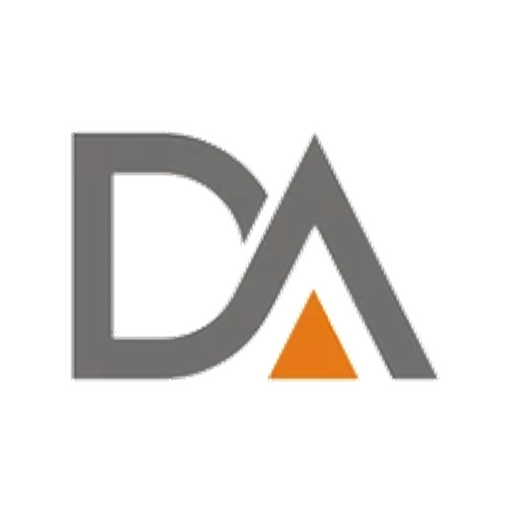
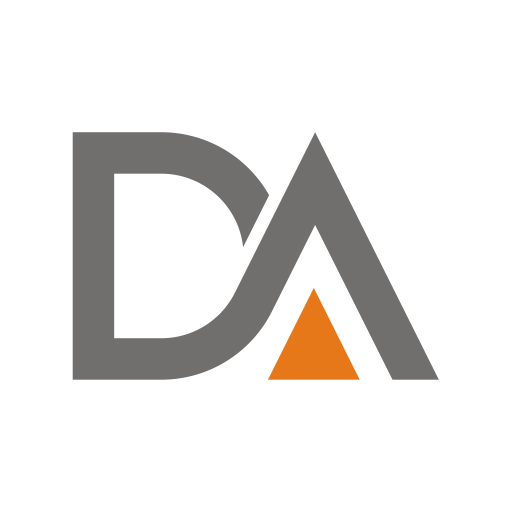
feat(assets): make a geometric vector the studio mark's master
- Add da-logo.svg plus black and white silhouettes, built from exact
  lines and arcs: one 2:1 slope for every diagonal, one stroke width,
  one ring for the D's bowl, sharp computed corners
- Fills come from --da-structure and --da-apex custom properties, with
  plain fill attributes as the fallback for renderers without CSS
- Re-render every raster from the SVG: colour and silhouette PNGs at
  1024 px, both avatars and the favicon set in their previous layouts
- Add tools/score_mark.py (Pillow only), the match check a redraw must
  pass against the original raster: IoU >= 0.98 per colour, white
  channels clear, open regions unchanged; the master scores 0.9963 and
  0.9923
- README: the SVG is the master, redraws are allowed when they pass the
  check, the original raster is kept for reference, and a brand design
  pass may change the palette

diff --git a/tools/score_mark.py b/tools/score_mark.py
@@ -1,0 +1,174 @@
+#!/usr/bin/env python3
+"""Check a redraw of the studio mark against the original raster.
+
+The original (assets/da-logo-original.png, 158x112) has binary alpha; its
+edge pixels are the mark's colour blended toward white. Each pixel's
+coverage of the structure grey and the apex orange is recovered from that
+blend. The candidate is a 158x112 render with a transparent background and
+is read the same way, against its own two fill colours; for a vector
+render with exact fills that is simply its alpha.
+
+Pass criteria:
+  * IoU of at least 0.98 per colour (masks cut at 50% coverage);
+  * the white channels clear: no candidate pixel above alpha 64 where the
+    original is transparent inside the mark's bounding box;
+  * the same number of open background regions as the original.
+
+Pixel match on white is reported for information. A crisp vector scores
+about 95% within a tolerance of 16 because the original's edges are softer
+than vector anti-aliasing; it is not a pass criterion.
+
+Usage:
+  inkscape --export-type=png --export-width=158 --export-filename=r.png assets/da-logo.svg
+  python3 tools/score_mark.py r.png [--original assets/da-logo-original.png]
+      [--structure '#716f6e'] [--apex '#e67819']
+
+--structure and --apex name the candidate's fill colours, so a recoloured
+redraw can be checked against the original's shapes. Requires Pillow only.
+Exit status 0 on pass, 1 on fail.
+"""
+
+import argparse
+import sys
+from collections import deque
+from pathlib import Path
+
+from PIL import Image
+
+ORIGINAL_STRUCTURE = (0x71, 0x6F, 0x6E)
+ORIGINAL_APEX = (0xE6, 0x78, 0x19)
+RGB = tuple[int, int, int]
+Grid = list[list[float]]
+DEFAULT_ORIGINAL = (
+    Path(__file__).resolve().parent.parent / "assets" / "da-logo-original.png"
+)
+
+
+def hex_rgb(s: str) -> RGB:
+    s = s.lstrip("#")
+    return tuple(int(s[i : i + 2], 16) for i in (0, 2, 4))
+
+
+def blend_coverage(rgb: RGB, colour: RGB) -> tuple[float, float]:
+    """Least-squares c in rgb = c*colour + (1-c)*white, plus the residual."""
+    d = [255 - k for k in colour]
+    c = sum((255 - v) * dk for v, dk in zip(rgb, d)) / sum(dk * dk for dk in d)
+    c = min(max(c, 0.0), 1.0)
+    resid = sum((v - (255 - c * dk)) ** 2 for v, dk in zip(rgb, d))
+    return c, resid
+
+
+def coverage(img: Image.Image, structure: RGB, apex: RGB) -> tuple[Grid, Grid]:
+    """Coverage maps (structure, apex): alpha times the blend toward white.
+    A vector render with exact fills gets its alpha; a raster with opaque
+    white-blended edges, like the original, gets the blend."""
+    w, h = img.size
+    px = img.load()
+    s = [[0.0] * w for _ in range(h)]
+    a = [[0.0] * w for _ in range(h)]
+    for y in range(h):
+        for x in range(w):
+            r, g, b, al = px[x, y]
+            if al == 0:
+                continue
+            cs, rs = blend_coverage((r, g, b), structure)
+            ca, ra = blend_coverage((r, g, b), apex)
+            if rs <= ra:
+                s[y][x] = cs * al / 255
+            else:
+                a[y][x] = ca * al / 255
+    return s, a
+
+
+def iou(m: Grid, c: Grid) -> float:
+    inter = union = 0
+    for rm, rc in zip(m, c):
+        for vm, vc in zip(rm, rc):
+            bm, bc = vm >= 0.5, vc >= 0.5
+            inter += bm and bc
+            union += bm or bc
+    return inter / union if union else 1.0
+
+
+def regions(empty: list[list[bool]]) -> int:
+    """Count 4-connected regions of True cells."""
+    h, w = len(empty), len(empty[0])
+    seen = [[False] * w for _ in range(h)]
+    n = 0
+    for y0 in range(h):
+        for x0 in range(w):
+            if not empty[y0][x0] or seen[y0][x0]:
+                continue
+            n += 1
+            q = deque([(x0, y0)])
+            seen[y0][x0] = True
+            while q:
+                x, y = q.popleft()
+                for nx, ny in ((x + 1, y), (x - 1, y), (x, y + 1), (x, y - 1)):
+                    if (
+                        0 <= nx < w
+                        and 0 <= ny < h
+                        and empty[ny][nx]
+                        and not seen[ny][nx]
+                    ):
+                        seen[ny][nx] = True
+                        q.append((nx, ny))
+    return n
+
+
+def over_white(p: tuple[int, int, int, int]) -> tuple[float, float, float]:
+    r, g, b, a = p
+    t = a / 255
+    return (r * t + 255 * (1 - t), g * t + 255 * (1 - t), b * t + 255 * (1 - t))
+
+
+def main() -> int:
+    ap = argparse.ArgumentParser(description=__doc__.split("\n")[0])
+    ap.add_argument("candidate", help="158x112 PNG render of the redraw")
+    ap.add_argument("--original", default=str(DEFAULT_ORIGINAL))
+    ap.add_argument("--structure", default="#716f6e")
+    ap.add_argument("--apex", default="#e67819")
+    args = ap.parse_args()
+
+    orig = Image.open(args.original).convert("RGBA")
+    cand = Image.open(args.candidate).convert("RGBA")
+    if cand.size != orig.size:
+        sys.exit(
+            f"candidate is {cand.size[0]}x{cand.size[1]}; render it at {orig.size[0]}x{orig.size[1]}"
+        )
+    w, h = orig.size
+    ms, ma = coverage(orig, ORIGINAL_STRUCTURE, ORIGINAL_APEX)
+    cs, ca = coverage(cand, hex_rgb(args.structure), hex_rgb(args.apex))
+    iou_s, iou_a = iou(ms, cs), iou(ma, ca)
+
+    op, cp = orig.load(), cand.load()
+    xs = [x for x in range(w) for y in range(h) if op[x, y][3]]
+    ys = [y for x in range(w) for y in range(h) if op[x, y][3]]
+    x0, x1, y0, y1 = min(xs), max(xs), min(ys), max(ys)
+    channel = blocked = 0
+    for y in range(y0, y1 + 1):
+        for x in range(x0, x1 + 1):
+            if op[x, y][3] == 0:
+                channel += 1
+                blocked += cp[x, y][3] > 64
+    reg_o = regions([[ms[y][x] + ma[y][x] < 0.5 for x in range(w)] for y in range(h)])
+    reg_c = regions([[cp[x, y][3] < 128 for x in range(w)] for y in range(h)])
+    match = sum(
+        max(abs(u - v) for u, v in zip(over_white(op[x, y]), over_white(cp[x, y])))
+        <= 16
+        for y in range(h)
+        for x in range(w)
+    ) / (w * h)
+
+    ok = iou_s >= 0.98 and iou_a >= 0.98 and blocked == 0 and reg_o == reg_c
+    print(f"IoU structure      {iou_s:.4f}  (bar 0.98)")
+    print(f"IoU apex           {iou_a:.4f}  (bar 0.98)")
+    print(f"channel pixels     {blocked} of {channel} above alpha 64  (bar 0)")
+    print(f"open regions       {reg_c} candidate, {reg_o} original")
+    print(f"match on white     {match * 100:.1f}% within 16  (information only)")
+    print("PASS" if ok else "FAIL")
+    return 0 if ok else 1
+
+
+if __name__ == "__main__":
+    sys.exit(main())

diff --git a/README.md b/README.md
@@ -1,52 +1,79 @@
-# Dais & Apex — brand assets
+# Dais & Apex brand assets
 
-The studio mark: an interlocked **D** and **A** — the dais — with an orange
-peak between the A's legs — the apex. Designed by the studio; the master
-artwork is the raster original, kept verbatim. Derived files are produced only
-by background removal, cropping, recoloring the silhouette, and scaling —
-never by redrawing.
+The studio mark: an interlocked **D** and **A**, the dais, with an orange peak
+between the A's legs, the apex.
+
+The master is `assets/da-logo.svg`. It is built from exact lines and arcs: one
+2:1 slope for every diagonal, one stroke width, one ring for the D's bowl.
+Every raster in `assets/` is rendered from it.
+
+A full brand design pass is under way. The palette, and possibly the shapes,
+may change.
 
 ## Files
 
 | File | Use |
 |------|-----|
-| `assets/da-logo.png` | **Master.** Original artwork, transparent background. |
-| `assets/da-logo-black.png` | All-black silhouette — light grounds, print, single-ink. |
-| `assets/da-logo-white.png` | All-white silhouette — dark grounds. |
-| `assets/avatar-512.png` | GitHub org avatar (white tile; upload via web UI). |
-| `assets/favicon-16/32/48.png` | Raster favicons, downscaled from the master. |
+| `assets/da-logo.svg` | **Master.** Colour mark, vector. |
+| `assets/da-logo-black.svg` | All-black silhouette, vector. Light grounds, print, single ink. |
+| `assets/da-logo-white.svg` | All-white silhouette, vector. Dark grounds. |
+| `assets/da-logo.png`, `-black.png`, `-white.png` | The same three, 1024 px wide. |
+| `assets/avatar-512.png` | GitHub org avatar, white tile. Upload via the web UI. |
+| `assets/avatar-circle-512.png` | Black mark on a white disc, for circle crops. |
+| `assets/favicon-16/32/48.png` | Raster favicons. |
 | `assets/favicon.ico` | Multi-resolution icon (16/32/48) for legacy clients. |
+| `assets/da-logo-original.png` | The designer's original raster (158 px), kept for reference. Not for use. |
+| `tools/score_mark.py` | Match check for redraws. |
 
-## Palette (sampled from the master)
+## Palette
 
-| Token | Hex | Role |
-|-------|-----|------|
-| Structure grey | `#716f6e` | The D and A |
-| Apex orange | `#e67819` | The peak |
+| Token | Hex | CSS property | Role |
+|-------|-----|--------------|------|
+| Structure grey | `#716f6e` | `--da-structure` | The D and A |
+| Apex orange | `#e67819` | `--da-apex` | The peak |
+
+In the SVGs the fills come from the two CSS custom properties. Renderers
+without CSS support use the plain `fill` attributes, so change both when
+recolouring.
 
 ## Usage
 
-- The color master is the default form. Black/white silhouettes are for
-  single-ink contexts; they are recolors of the same pixels, not redraws.
-- The white channels between the D, the A, and the peak are part of the mark —
-  keep them clear.
-- The master is 158px wide: fine for avatars and below. For large-format uses,
-  regenerate the derived set from a higher-resolution export of the original
-  artwork using the same pipeline; do not upscale beyond the avatar size, and
-  do not substitute a redrawn version.
+- Use the SVG wherever it is accepted. For rasters, render from the SVG at the
+  size needed rather than scaling a PNG.
+- The silhouettes are for single-ink contexts.
+- The white channels between the D, the A and the peak are part of the mark.
+  Keep them clear.
+
+## Redraws
+
+A redraw may replace the master when it passes the match check against the
+original raster:
+
+- IoU of at least 0.98 per colour;
+- the white channels clear;
+- the same open regions as the original, so no channel closes up.
+
+Render at 158 px and run the check (Pillow only):
+
+```
+inkscape --export-type=png --export-width=158 --export-filename=render.png assets/da-logo.svg
+python3 tools/score_mark.py render.png
+```
+
+The current master scores 0.9963 (structure) and 0.9923 (apex).
 
 ## Product marks
 
 The studio mark above identifies **Dais & Apex**. Each product carries its own
-mark — the studio logo is never stamped on a product. Brand family comes from
+mark; the studio logo is never stamped on a product. Brand family comes from
 shared restraint and a shared accent, not from repeating the logo.
 
 Snapshots below; each product repo remains canonical.
 
 | Product | Mark | Palette | Status |
 |---|---|---|---|
-| [demiplane](pillars/demiplane/) | A **pocket reality** — bounded outer world, gateway gap at the bottom, smaller pocket sealed inside. Monochrome single-weight line art; reduces to ASCII. | Ink `#e7e9ec` on dark / `#14171c` on light; tile `#14171c` | Public |
-| [fur](pillars/fur/) | A geometric monogram — paired chevrons `>>` / `<<` flanking a bracketed `[ ]` on a solid black tile. Reads as navigation between documents. | Ink `#000000`, Paper `#ffffff`, Signal Pink `#fd578e`, Signal Blue `#52cbfd` | Unreleased |
+| [demiplane](pillars/demiplane/) | A **pocket reality**: bounded outer world, gateway gap at the bottom, smaller pocket sealed inside. Monochrome single-weight line art; reduces to ASCII. | Ink `#e7e9ec` on dark / `#14171c` on light; tile `#14171c` | Public |
+| [fur](pillars/fur/) | A geometric monogram: paired chevrons `>>` / `<<` flanking a bracketed `[ ]` on a solid black tile. Reads as navigation between documents. | Ink `#000000`, Paper `#ffffff`, Signal Pink `#fd578e`, Signal Blue `#52cbfd` | Unreleased |
 | Firn | Not yet drawn. Brief exists: metaphor is *frozen in time* (firn is snow that survived an earlier season). Must not resemble the Gradia mark it replaces, must not be the studio logo, no text. | Cold blues/whites with `#e67819` as accent only | Brief only |
 
 ### What the aesthetic is, in one paragraph
@@ -54,18 +81,19 @@ Snapshots below; each product repo remains canonical.
 Line art over illustration. Monochrome by default, with a single saturated
 accent used sparingly. Marks are built from geometric primitives that survive
 downscaling to 16px, and every one of them is tested there. Nothing decorative:
-each mark encodes what the product *does* — a bounded pocket, a bracket between
-chevrons — rather than depicting the category it belongs to. No gradients on
-flat surfaces, no shadows, no outlines, no rotation, no stretching.
+each mark encodes what the product *does*, a bounded pocket or a bracket
+between chevrons, rather than depicting the category it belongs to. No
+gradients on flat surfaces, no shadows, no outlines, no rotation, no
+stretching.
 
 ### For a designer picking this up
 
-Read `pillars/demiplane/README.md` first — it is the most complete expression of
+Read `pillars/demiplane/README.md` first. It is the most complete expression of
 the house style, including how the mark degrades to ASCII. Then `pillars/fur/`
 for how the accent pair is handled. Both documents specify clear space, minimum
 size, and the exact regeneration pipeline from vector master to raster set;
 those conventions carry to any new mark.
 
 The open brief is **Firn**, and it is the real work: a GTK4/libadwaita app icon
-that must pass GNOME HIG review and Flathub quality guidelines. That brief lives
-outside this repo — ask for `prepared/firn/icon-spec.md`.
+that must pass GNOME HIG review and Flathub quality guidelines. The brief lives
+outside this repo; ask the studio for it.
